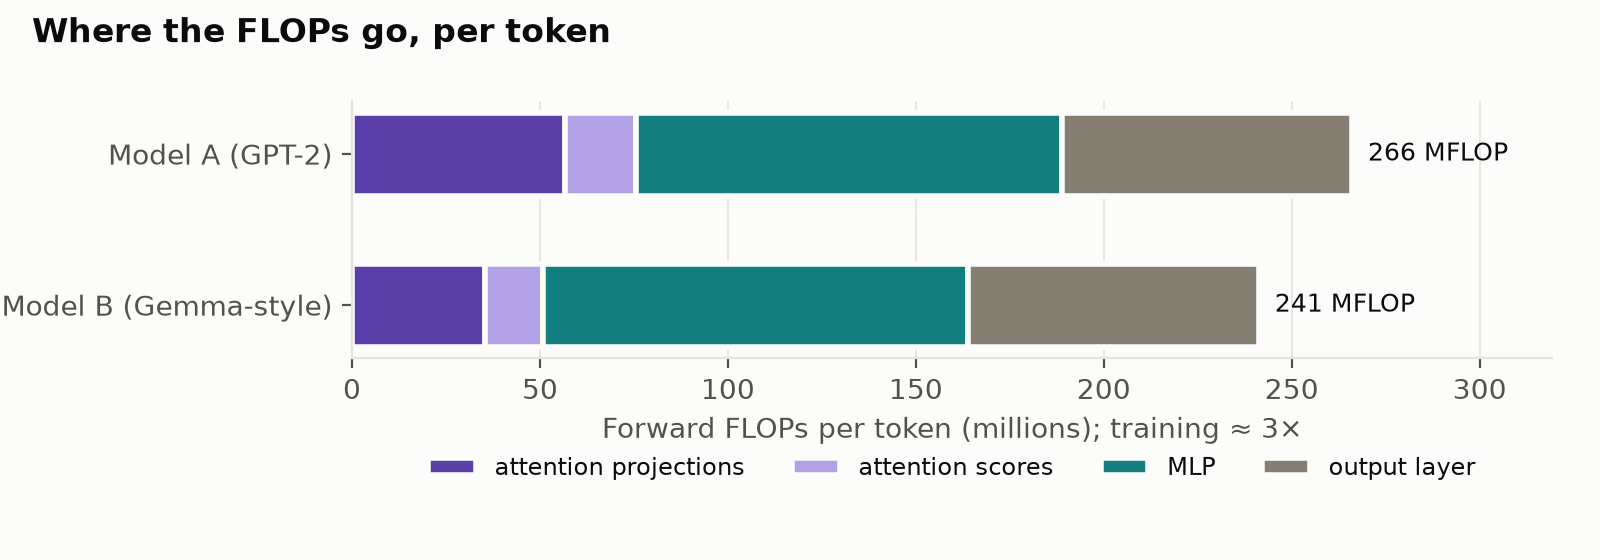
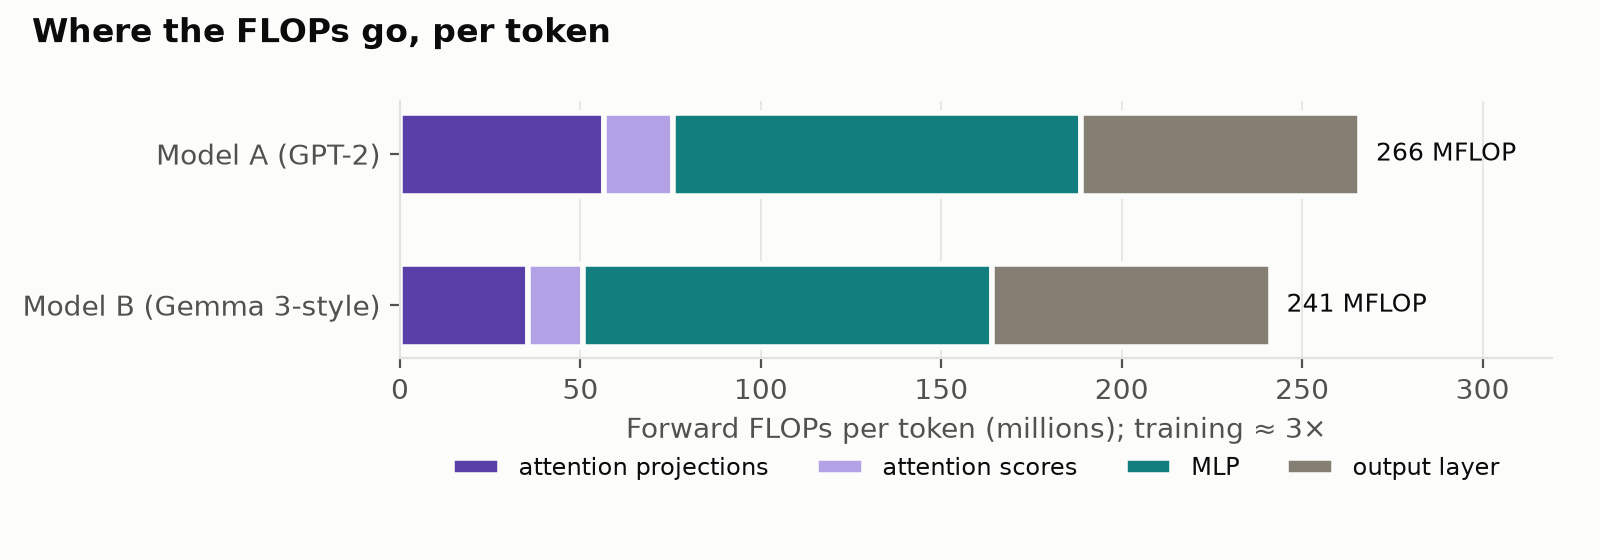
Figures: call Model B "Gemma 3-style", matching the posts' titles
The model labels in the plotted figures (FLOPs, KV cache, loss overlay, LAMBADA targets, step-320 spike) and
the saved data they are read back from now say "Gemma 3-style": the same model, relabelled, nothing re-run.
The FLOPs figure gets a little more left margin for the longer label.

Claude-Session: https://claude.ai/code/session_011g3Lyr8UvzJaXaqXaADC6N

diff --git a/analysis/efficiency/02_flops.py b/analysis/efficiency/02_flops.py
@@ -38,7 +38,7 @@ RUNS_JSON = os.path.join(DATA, "flops_runs.json")
 OUT_CSV = os.path.join(DATA, "flops.csv")
 OUT_PNG = os.path.join(FIGURES, "flops.png")
 # Choices: which runs (the headline pair), and the components the figure separates
-RUNS = [("Model A (GPT-2)", run_ids.HEADLINE_A), ("Model B (Gemma-style)", run_ids.HEADLINE_B)]
+RUNS = [("Model A (GPT-2)", run_ids.HEADLINE_A), ("Model B (Gemma 3-style)", run_ids.HEADLINE_B)]
 COMPONENTS = ("attention projections", "attention scores", "MLP", "output layer")
 CONFIG_KEYS = ("out_dir", "batch_size", "gradient_accumulation_steps", "block_size", "max_iters")
 
@@ -154,7 +154,7 @@ def main():
     ax.grid(axis="y", visible=False)
     ax.legend(loc="upper center", bbox_to_anchor=(0.5, -0.3), ncol=4, fontsize=8.5)
     fig.text(0.02, 0.97, "Where the FLOPs go, per token", fontsize=12, fontweight="bold", va="top")
-    fig.subplots_adjust(left=0.22, right=0.97, top=0.82, bottom=0.36)
+    fig.subplots_adjust(left=0.25, right=0.97, top=0.82, bottom=0.36)  # left: room for the longest model label
     os.makedirs(FIGURES, exist_ok=True)
     fig.savefig(OUT_PNG, dpi=200)
     print(f"wrote {OUT_CSV}, {OUT_PNG}")

diff --git a/analysis/efficiency/01_inference_benchmark.py b/analysis/efficiency/01_inference_benchmark.py
@@ -26,7 +26,7 @@ from common import models, run_ids, runs, style  # noqa: E402
 DATA, FIGURES = os.path.join(HERE, "data"), os.path.join(HERE, "figures")
 CONFIG_JSON = os.path.join(DATA, "run_configs.json")
 # Choices: which runs, and the measurement grid.
-RUNS = [("124M GPT-2 (Model A)", run_ids.HEADLINE_A), ("113M Gemma-style (Model B)", run_ids.HEADLINE_B)]
+RUNS = [("124M GPT-2 (Model A)", run_ids.HEADLINE_A), ("113M Gemma 3-style (Model B)", run_ids.HEADLINE_B)]
 PROMPT_LENS = (128, 512)  # decode: prompt length before generating
 NEW_TOKENS = 256  # decode: tokens generated per run (prompt + new must fit in block_size)
 PREFILL_LENS = (128, 512, 1024)  # prefill: one forward pass over this many tokens

diff --git a/analysis/headline_comparison/01_loss_overlay.py b/analysis/headline_comparison/01_loss_overlay.py
@@ -59,7 +59,7 @@ def main():
     bottom.set_xlim(left=0)  # the axes share x: training starts at 0 tokens, with no padding before it
 
     fig.text(0.02, 0.985, "Same loss by the end", fontsize=12, fontweight="bold", va="top")
-    fig.text(0.02, 0.945, f"Gemma-style leads by {-min(gap):.3f} early; after {tokens[-1]:.1f}B tokens the gap is "
+    fig.text(0.02, 0.945, f"Gemma 3-style leads by {-min(gap):.3f} early; after {tokens[-1]:.1f}B tokens the gap is "
              f"{gap[-1]:+.3f}, inside run-to-run noise.", fontsize=9.5, color=style.INK_SECONDARY, va="top")
     fig.subplots_adjust(left=0.1, right=0.97, top=0.88, bottom=0.09, hspace=0.08)
     os.makedirs(headline.FIGURES, exist_ok=True)

diff --git a/analysis/headline_comparison/headline.py b/analysis/headline_comparison/headline.py
@@ -18,7 +18,7 @@ from common import run_ids  # noqa: E402
 
 # Choices: the two headline runs (wandb run paths) in plotting order, with their labels.
 MODEL_A, MODEL_B = run_ids.HEADLINE_A, run_ids.HEADLINE_B
-LABELS = {MODEL_A: "124M GPT-2 (Model A)", MODEL_B: "113M Gemma-style (Model B)"}
+LABELS = {MODEL_A: "124M GPT-2 (Model A)", MODEL_B: "113M Gemma 3-style (Model B)"}
 REFERENCE = "gpt2"  # OpenAI's GPT-2 small, loaded through the eval adapter
 NOISE_RUNS = (run_ids.LADDER_A4, run_ids.LADDER_A4_SEED2)  # one 1.5B-token Gemma-style run, two seeds
 CONFIG_KEYS = ["out_dir", "dataset"]  # what 01 fetches from each run's wandb config

diff --git a/analysis/step320_spike/01_loss_spike.py b/analysis/step320_spike/01_loss_spike.py
@@ -24,7 +24,7 @@ OUT = os.path.join(page.FIGURES, "loss_spike.png")
 # also means two warmups) and 2 vs 4 GPUs. Only the data order is shared.
 RUNS = [
     ("124M GPT-2, 1.5B-token run", run_ids.LADDER_A0),
-    ("113M Gemma-style, 1.5B-token run", run_ids.LADDER_A4),
+    ("113M Gemma 3-style, 1.5B-token run", run_ids.LADDER_A4),
     ("124M GPT-2, 9.8B-token run", run_ids.HEADLINE_A),
 ]
 COLORS = [style.MODEL_A, style.MODEL_B, style.MODEL_A_DARK]  # in RUNS order: the model's colour, darker for its long run

diff --git a/analysis/efficiency/03_decode_bytes.py b/analysis/efficiency/03_decode_bytes.py
@@ -22,7 +22,7 @@ sys.path[:0] = [os.path.dirname(HERE), ROOT]  # analysis/ for common, the repo r
 from common import models, run_ids, runs  # noqa: E402
 
 DATA = os.path.join(HERE, "data")
-LABELS = {"124M GPT-2 (Model A)": run_ids.HEADLINE_A, "113M Gemma-style (Model B)": run_ids.HEADLINE_B}  # as in 01
+LABELS = {"124M GPT-2 (Model A)": run_ids.HEADLINE_A, "113M Gemma 3-style (Model B)": run_ids.HEADLINE_B}  # as in 01
 BYTES = 4  # float32, the dtype 01 measured in
 
 
